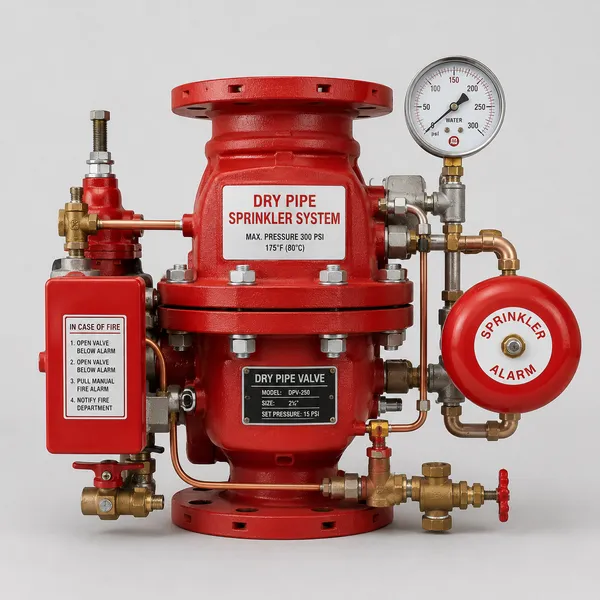
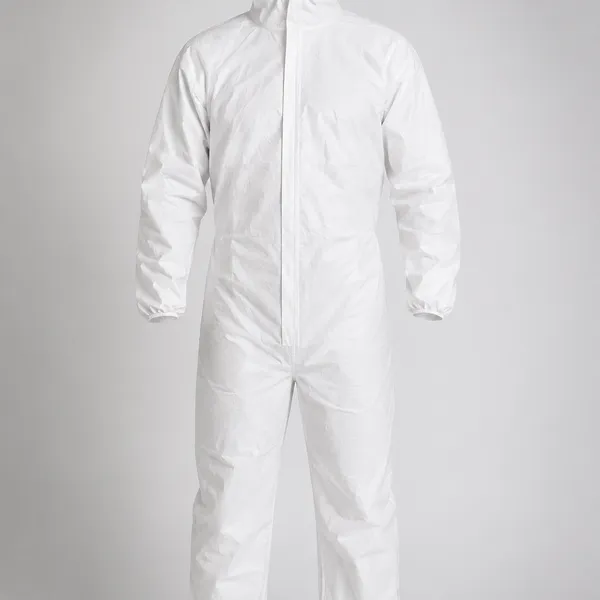
feat: mapped 23 new images and setup fire extinguisher fallback image

diff --git a/src/pages/Products.jsx b/src/pages/Products.jsx
@@ -185,13 +185,19 @@ function ProductCard({ product, index, divisionColors }) {
     'ppe-11', 'ppe-12', 'ppe-13', 'ppe-14', 'ppe-15', 'ppe-16', 'ppe-17', 'ppe-18', 'ppe-19', 'ppe-20',
     'wipe-01', 'wipe-02', 'wipe-03', 'wipe-04', 'wipe-05', 'wipe-06', 'wipe-07',
     'cs-01', 'cs-02', 'cs-03', 'cs-04', 'cs-05', 'cs-06', 'cs-07', 'cs-08', 'cs-09', 'cs-10',
-    'fs-01', 'fs-02', 'fs-03', 'fs-04', 'fs-05', 'fs-06', 'fs-07', 'fs-08'
+    'fs-02', 'fs-06', 'fs-07', 'fs-08', 'fs-09', 'fs-10', 'fs-11', 'fs-12', 'fs-13', 'fs-14', 'fs-15',
+    'rs-01', 'rs-02', 'rs-03', 'rs-04', 'rs-05', 'rs-06',
+    'cl-01', 'cl-02', 'cl-03', 'cl-04', 'cl-05', 'cl-06', 'cl-07', 'cl-08', 'cl-09', 'cl-10', 'cl-11', 'cl-12', 'cl-13', 'cl-26'
   ]
 
-  const hasSpecificImage = generatedImageIds.includes(product.id)
-  const imageSrc = hasSpecificImage 
-    ? `/products/prod_${product.id.replace('-', '_')}.webp` 
-    : division?.image
+  const sharedExtinguishers = ['fs-01', 'fs-03', 'fs-04', 'fs-05']
+
+  let imageSrc = division?.image
+  if (generatedImageIds.includes(product.id)) {
+    imageSrc = `/products/prod_${product.id.replace('-', '_')}.webp`
+  } else if (sharedExtinguishers.includes(product.id)) {
+    imageSrc = `/products/prod_fs_02.webp`
+  }
 
   return (
     <div